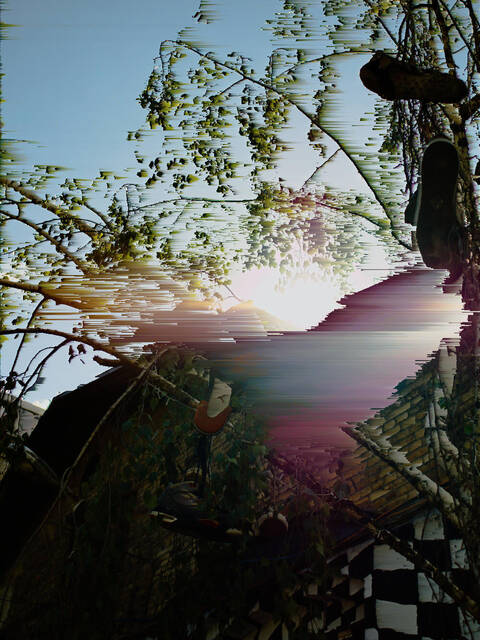
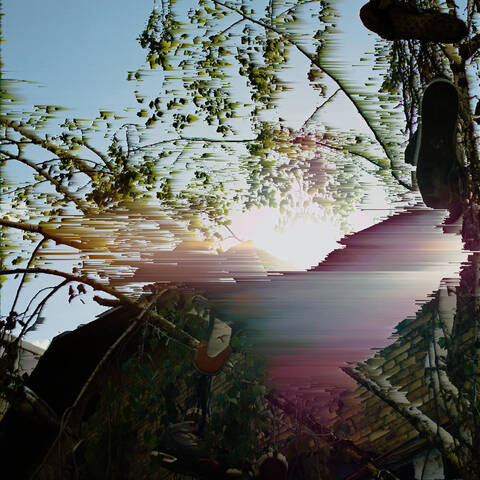
📝 Line up the gallery and add an animation under it
Context: the pictures of the gallery kept the shape of the portrait
they come from, and the columns of the table took the width their
content asked for, so that a recipe on one line made the pictures
beside it smaller than the others. The gallery also showed nothing
that moves, while the effects can be animated.

Why: the pictures are now cut to a square of 480 pixels, taken near the
top of the photo to keep the sky and the sun, and the table has three
columns of a third of the width each, with the pictures filling their
cell, so that all of them have the same size and the texts line up. An
animation, glitch-mix.gif, is shown under the table with its recipe: the
colours turn, slices are pushed aside, the red and blue edges grow, a
faint spin turns round the sun and scanlines stay on top. It is 400
pixels wide, 26 images, 3.5 MB, and generate.sh makes it again with
the pictures.

Alternatives considered: keeping the portrait shape and fixing only the
height of a cell, which leaves empty space beside every picture; the
centre of the photo for the square, which cuts the sky that the false
colour of the sky needs; a larger animation, whose palette of 256
colours and grain make it heavier without looking better.

diff --git a/README.md b/README.md
@@ -6,20 +6,33 @@ Fast JPEG+RAW photo culling in the terminal, with RawTherapee integration and gl
 
 ## Gallery
 
-Every picture is the same photo with one effect, its recipe written under it; open `options` for the parameters of the effect. What each effect does is [explained below](#effects), and `sh docs/examples/generate.sh` makes the pictures again.
+Every picture is the same photo, cropped to a square, with one effect, its recipe written under it; open `options` for the parameters of the effect. What each effect does is [explained below](#effects), and `sh docs/examples/generate.sh` makes the pictures again.
 
-<table>
-<tr><td align="center" valign="top"><img src="docs/examples/loss.jpg" width="260"><br><b>generation loss</b><br><code>loss</code><details><summary>options</summary><div align="left"><code>generations=30</code> times saved as JPEG and read back<br><code>quality=25</code> JPEG quality, 1 to 100; lower wears faster<br><code>shift=1,0</code> pixels the picture moves before each generation<br></div></details></td><td align="center" valign="top"><img src="docs/examples/bend.jpg" width="260"><br><b>databending</b><br><code>bend</code><details><summary>options</summary><div align="left"><code>quality=75</code> JPEG quality before the bytes are bent; lower gives larger blocks<br><code>hits=8</code> how many bytes are changed<br></div></details></td><td align="center" valign="top"><img src="docs/examples/sort.jpg" width="260"><br><b>pixel sorting</b><br><code>sort</code><details><summary>options</summary><div align="left"><code>direction=horizontal</code> horizontal or vertical<br><code>low=40</code> darkest brightness sorted, 0 to 255<br><code>high=220</code> brightest brightness sorted, 0 to 255<br><code>reverse=false</code> sort from bright to dark<br></div></details></td></tr>
-<tr><td align="center" valign="top"><img src="docs/examples/slice.jpg" width="260"><br><b>slice shift</b><br><code>slice</code><details><summary>options</summary><div align="left"><code>slices=12</code> how many slices are pushed<br><code>shift=120</code> how far a slice can go, in pixels<br><code>height=8,120</code> height of a slice, between these two<br><code>split=false</code> push red, green and blue by different amounts<br><code>invert=false</code> invert the colours of one slice in three<br></div></details></td><td align="center" valign="top"><img src="docs/examples/stretch.jpg" width="260"><br><b>pixel stretch</b><br><code>stretch</code><details><summary>options</summary><div align="left"><code>bands=6</code> how many lines are stretched<br><code>length=20,200</code> how far, between these two, in pixels<br><code>direction=horizontal</code> horizontal or vertical<br></div></details></td><td align="center" valign="top"><img src="docs/examples/split.jpg" width="260"><br><b>channel split</b><br><code>split</code><details><summary>options</summary><div align="left"><code>red=-6,0</code> dx,dy in pixels<br><code>green=0,0</code> dx,dy in pixels<br><code>blue=6,0</code> dx,dy in pixels<br></div></details></td></tr>
-<tr><td align="center" valign="top"><img src="docs/examples/dither.jpg" width="260"><br><b>dither, error diffusion</b><br><code>dither</code><details><summary>options</summary><div align="left"><code>method=diffusion</code> diffusion or bayer<br><code>size=2</code> size of a dot, in pixels<br><code>mid=128</code> brightness, 0 to 255, that comes out mid-grey<br></div></details></td><td align="center" valign="top"><img src="docs/examples/dither-bayer.jpg" width="260"><br><b>dither, ordered matrix</b><br><code>dither method=bayer</code><details><summary>options</summary><div align="left"><code>method=diffusion</code> diffusion or bayer<br><code>size=2</code> size of a dot, in pixels<br><code>mid=128</code> brightness, 0 to 255, that comes out mid-grey<br></div></details></td><td align="center" valign="top"><img src="docs/examples/duotone.jpg" width="260"><br><b>duotone</b><br><code>duotone</code><details><summary>options</summary><div align="left"><code>dark=000000</code> ink of the shadows<br><code>light=ff4fa3</code> ink of the lights; colours are hex, a name or a hue<br></div></details></td></tr>
-<tr><td align="center" valign="top"><img src="docs/examples/tritone.jpg" width="260"><br><b>tritone</b><br><code>tritone</code><details><summary>options</summary><div align="left"><code>dark=14052b</code> ink of the shadows<br><code>mid=e0204f</code> ink of the mid tones<br><code>light=ffd9a0</code> ink of the lights<br><code>mix=100</code> how much of the print shows, 0 to 100<br></div></details></td><td align="center" valign="top"><img src="docs/examples/scanlines.jpg" width="260"><br><b>scanlines</b><br><code>scanlines</code><details><summary>options</summary><div align="left"><code>period=4</code> rows from one line to the next<br><code>thickness=1</code> rows a line is thick<br><code>strength=60</code> how dark the lines are, 0 to 100<br></div></details></td><td align="center" valign="top"><img src="docs/examples/drag.jpg" width="260"><br><b>drag, a flash over a slow shutter</b><br><code>drag</code><details><summary>options</summary><div align="left"><code>kind=motion</code> motion or zoom<br><code>length=60</code> how far the smear goes, in pixels<br><code>angle=0</code> direction in degrees, 90 is down<br><code>mix=70</code> how much of the smear shows, 0 to 100<br><code>blend=lighten</code> lighten, screen or normal<br></div></details></td></tr>
-<tr><td align="center" valign="top"><img src="docs/examples/drag-zoom.jpg" width="260"><br><b>drag, zooming</b><br><code>drag kind=zoom</code><details><summary>options</summary><div align="left"><code>kind=motion</code> motion or zoom<br><code>length=60</code> how far the smear goes, in pixels<br><code>angle=0</code> direction in degrees, 90 is down<br><code>mix=70</code> how much of the smear shows, 0 to 100<br><code>blend=lighten</code> lighten, screen or normal<br></div></details></td><td align="center" valign="top"><img src="docs/examples/aberration.jpg" width="260"><br><b>chromatic aberration</b><br><code>aberration</code><details><summary>options</summary><div align="left"><code>amount=0.006</code> how much larger the red is drawn than the green; 0.01 is already strong<br></div></details></td><td align="center" valign="top"><img src="docs/examples/grain.jpg" width="260"><br><b>film grain</b><br><code>grain</code><details><summary>options</summary><div align="left"><code>strength=30</code> 0 to 100<br><code>size=2</code> size of a grain, in pixels<br><code>color=false</code> grain that colours the picture, or only lightens and darkens it<br></div></details></td></tr>
-<tr><td align="center" valign="top"><img src="docs/examples/fade.jpg" width="260"><br><b>faded print</b><br><code>fade</code><details><summary>options</summary><div align="left"><code>lift=12</code> how far the blacks are lifted, 0 to 100<br><code>saturation=80</code> 100 leaves the colour, 0 takes it out, 200 doubles it<br><code>tint=ff8c42</code> colour the picture leans towards<br><code>tint_amount=10</code> how much, 0 to 100<br></div></details></td><td align="center" valign="top"><img src="docs/examples/vignette.jpg" width="260"><br><b>vignette</b><br><code>vignette</code><details><summary>options</summary><div align="left"><code>strength=50</code> how dark the corners get, 0 to 100<br><code>start=40</code> where the darkening starts, 0 to 100 from the centre to the corners<br></div></details></td><td align="center" valign="top"><img src="docs/examples/leak.jpg" width="260"><br><b>light leak</b><br><code>leak</code><details><summary>options</summary><div align="left"><code>color=ff963c</code> colour of the light<br><code>strength=70</code> 0 to 100<br><code>size=50</code> how far it reaches, 0 to 100 of the width<br></div></details></td></tr>
-<tr><td align="center" valign="top"><img src="docs/examples/bloom.jpg" width="260"><br><b>bloom</b><br><code>bloom</code><details><summary>options</summary><div align="left"><code>threshold=200</code> brightness, 0 to 255, above which a light glows<br><code>radius=30</code> how far the glow spreads, in pixels<br><code>strength=60</code> how bright the glow is, 0 to 100<br></div></details></td><td align="center" valign="top"><img src="docs/examples/liquid.jpg" width="260"><br><b>liquid distortion</b><br><code>liquid</code><details><summary>options</summary><div align="left"><code>amplitude=40</code> how far a pixel can be pushed, in pixels<br><code>scale=150</code> size of the waves<br><code>octaves=2</code> layers of finer waves; 1 is smooth, 3 is choppy<br><code>drift=0</code> how far the waves have drifted, to animate<br></div></details></td><td align="center" valign="top"><img src="docs/examples/falsecolor.jpg" width="260"><br><b>false colour (red and blue swapped)</b><br><code>falsecolor</code><details><summary>options</summary><div align="left"><code>order=bgr</code> where each channel comes from: rgb, gbr, brg…<br><code>invert=none</code> channels turned negative: r, g, b, rb… or none<br><code>rotate=0</code> turn the hues, -180 to 180 degrees<br><code>saturation=100</code> 0 takes the colour out, 200 doubles it, up to 400<br><code>only=none</code> move only this hue (name, degrees or hex); none moves all<br><code>width=30</code> degrees either side of <code>only</code> moved whole<br><code>soft=30</code> degrees over which the move fades<br><code>mix=100</code> how much of the result shows, 0 to 100<br></div></details></td></tr>
-<tr><td align="center" valign="top"><img src="docs/examples/falsecolor-rotate.jpg" width="260"><br><b>false colour, hues turned</b><br><code>falsecolor order=rgb rotate=120</code><details><summary>options</summary><div align="left"><code>order=bgr</code> where each channel comes from: rgb, gbr, brg…<br><code>invert=none</code> channels turned negative: r, g, b, rb… or none<br><code>rotate=0</code> turn the hues, -180 to 180 degrees<br><code>saturation=100</code> 0 takes the colour out, 200 doubles it, up to 400<br><code>only=none</code> move only this hue (name, degrees or hex); none moves all<br><code>width=30</code> degrees either side of <code>only</code> moved whole<br><code>soft=30</code> degrees over which the move fades<br><code>mix=100</code> how much of the result shows, 0 to 100<br></div></details></td><td align="center" valign="top"><img src="docs/examples/onepoint.jpg" width="260"><br><b>one point colour</b><br><code>onepoint hue=80deg width=35 soft=30 rest=0</code><details><summary>options</summary><div align="left"><code>hue=0deg</code> the colour kept: a name, degrees or hex<br><code>width=30</code> degrees either side of it kept whole<br><code>soft=30</code> degrees over which the colour fades to grey<br><code>rest=0</code> how much colour the rest keeps, 0 to 100<br><code>at=none</code> <code>x,y</code> in percent: take the hue from this point of the picture<br></div></details></td><td align="center" valign="top"><img src="docs/examples/falsecolor-sky.jpg" width="260"><br><b>false colour, only the sky</b><br><code>falsecolor order=rgb rotate=45 saturation=200 only=blue width=25 soft=25</code><details><summary>options</summary><div align="left"><code>order=bgr</code> where each channel comes from: rgb, gbr, brg…<br><code>invert=none</code> channels turned negative: r, g, b, rb… or none<br><code>rotate=0</code> turn the hues, -180 to 180 degrees<br><code>saturation=100</code> 0 takes the colour out, 200 doubles it, up to 400<br><code>only=none</code> move only this hue (name, degrees or hex); none moves all<br><code>width=30</code> degrees either side of <code>only</code> moved whole<br><code>soft=30</code> degrees over which the move fades<br><code>mix=100</code> how much of the result shows, 0 to 100<br></div></details></td></tr>
-<tr><td align="center" valign="top"><img src="docs/examples/remap.jpg" width="260"><br><b>remap, a hue sent elsewhere</b><br><code>remap map=blue:orange,green:red saturation=130</code><details><summary>options</summary><div align="left"><code>map=none</code> pairs <code>from:to</code>, such as <code>blue:orange,green:red</code>; up to 8<br><code>width=25</code> degrees either side of a hue moved whole<br><code>soft=25</code> degrees over which the move fades<br><code>saturation=100</code> strength of the moved colours, 0 to 400<br><code>mix=100</code> how much of the result shows, 0 to 100<br></div></details></td><td align="center" valign="top"><img src="docs/examples/spin.jpg" width="260"><br><b>spin, a turning smear</b><br><code>spin angle=14</code><details><summary>options</summary><div align="left"><code>angle=10</code> how far it turns, in degrees<br><code>center=50,50</code> centre of the turn, in percent of width,height<br><code>steps=0</code> positions blended; 0 takes as many as needed, 5 gives ghosts<br><code>mix=100</code> how much of the smear shows, 0 to 100<br></div></details></td><td align="center" valign="top"><img src="docs/examples/spin-ghosts.jpg" width="260"><br><b>spin, a few ghosts</b><br><code>spin angle=24 steps=5 center=30,60</code><details><summary>options</summary><div align="left"><code>angle=10</code> how far it turns, in degrees<br><code>center=50,50</code> centre of the turn, in percent of width,height<br><code>steps=0</code> positions blended; 0 takes as many as needed, 5 gives ghosts<br><code>mix=100</code> how much of the smear shows, 0 to 100<br></div></details></td></tr>
-<tr><td align="center" valign="top"><img src="docs/examples/chain.jpg" width="260"><br><b>three effects in a row</b><br><code>sort low=40 high=220 + slice slices=12 split=true + grain</code><details><summary>options</summary><div align="left">effects joined by <code>+</code> run in order, each with its own options<br></div></details></td><td></td><td></td></tr>
+<table width="100%">
+<tr><td width="33%" align="center" valign="top"><img src="docs/examples/loss.jpg" width="100%"><br><b>generation loss</b><br><code>loss</code><details><summary>options</summary><div align="left"><code>generations=30</code> times saved as JPEG and read back<br><code>quality=25</code> JPEG quality, 1 to 100; lower wears faster<br><code>shift=1,0</code> pixels the picture moves before each generation<br></div></details></td><td width="33%" align="center" valign="top"><img src="docs/examples/bend.jpg" width="100%"><br><b>databending</b><br><code>bend</code><details><summary>options</summary><div align="left"><code>quality=75</code> JPEG quality before the bytes are bent; lower gives larger blocks<br><code>hits=8</code> how many bytes are changed<br></div></details></td><td width="33%" align="center" valign="top"><img src="docs/examples/sort.jpg" width="100%"><br><b>pixel sorting</b><br><code>sort</code><details><summary>options</summary><div align="left"><code>direction=horizontal</code> horizontal or vertical<br><code>low=40</code> darkest brightness sorted, 0 to 255<br><code>high=220</code> brightest brightness sorted, 0 to 255<br><code>reverse=false</code> sort from bright to dark<br></div></details></td></tr>
+<tr><td width="33%" align="center" valign="top"><img src="docs/examples/slice.jpg" width="100%"><br><b>slice shift</b><br><code>slice</code><details><summary>options</summary><div align="left"><code>slices=12</code> how many slices are pushed<br><code>shift=120</code> how far a slice can go, in pixels<br><code>height=8,120</code> height of a slice, between these two<br><code>split=false</code> push red, green and blue by different amounts<br><code>invert=false</code> invert the colours of one slice in three<br></div></details></td><td width="33%" align="center" valign="top"><img src="docs/examples/stretch.jpg" width="100%"><br><b>pixel stretch</b><br><code>stretch</code><details><summary>options</summary><div align="left"><code>bands=6</code> how many lines are stretched<br><code>length=20,200</code> how far, between these two, in pixels<br><code>direction=horizontal</code> horizontal or vertical<br></div></details></td><td width="33%" align="center" valign="top"><img src="docs/examples/split.jpg" width="100%"><br><b>channel split</b><br><code>split</code><details><summary>options</summary><div align="left"><code>red=-6,0</code> dx,dy in pixels<br><code>green=0,0</code> dx,dy in pixels<br><code>blue=6,0</code> dx,dy in pixels<br></div></details></td></tr>
+<tr><td width="33%" align="center" valign="top"><img src="docs/examples/dither.jpg" width="100%"><br><b>dither, error diffusion</b><br><code>dither</code><details><summary>options</summary><div align="left"><code>method=diffusion</code> diffusion or bayer<br><code>size=2</code> size of a dot, in pixels<br><code>mid=128</code> brightness, 0 to 255, that comes out mid-grey<br></div></details></td><td width="33%" align="center" valign="top"><img src="docs/examples/dither-bayer.jpg" width="100%"><br><b>dither, ordered matrix</b><br><code>dither method=bayer</code><details><summary>options</summary><div align="left"><code>method=diffusion</code> diffusion or bayer<br><code>size=2</code> size of a dot, in pixels<br><code>mid=128</code> brightness, 0 to 255, that comes out mid-grey<br></div></details></td><td width="33%" align="center" valign="top"><img src="docs/examples/duotone.jpg" width="100%"><br><b>duotone</b><br><code>duotone</code><details><summary>options</summary><div align="left"><code>dark=000000</code> ink of the shadows<br><code>light=ff4fa3</code> ink of the lights; colours are hex, a name or a hue<br></div></details></td></tr>
+<tr><td width="33%" align="center" valign="top"><img src="docs/examples/tritone.jpg" width="100%"><br><b>tritone</b><br><code>tritone</code><details><summary>options</summary><div align="left"><code>dark=14052b</code> ink of the shadows<br><code>mid=e0204f</code> ink of the mid tones<br><code>light=ffd9a0</code> ink of the lights<br><code>mix=100</code> how much of the print shows, 0 to 100<br></div></details></td><td width="33%" align="center" valign="top"><img src="docs/examples/scanlines.jpg" width="100%"><br><b>scanlines</b><br><code>scanlines</code><details><summary>options</summary><div align="left"><code>period=4</code> rows from one line to the next<br><code>thickness=1</code> rows a line is thick<br><code>strength=60</code> how dark the lines are, 0 to 100<br></div></details></td><td width="33%" align="center" valign="top"><img src="docs/examples/drag.jpg" width="100%"><br><b>drag, a flash over a slow shutter</b><br><code>drag</code><details><summary>options</summary><div align="left"><code>kind=motion</code> motion or zoom<br><code>length=60</code> how far the smear goes, in pixels<br><code>angle=0</code> direction in degrees, 90 is down<br><code>mix=70</code> how much of the smear shows, 0 to 100<br><code>blend=lighten</code> lighten, screen or normal<br></div></details></td></tr>
+<tr><td width="33%" align="center" valign="top"><img src="docs/examples/drag-zoom.jpg" width="100%"><br><b>drag, zooming</b><br><code>drag kind=zoom</code><details><summary>options</summary><div align="left"><code>kind=motion</code> motion or zoom<br><code>length=60</code> how far the smear goes, in pixels<br><code>angle=0</code> direction in degrees, 90 is down<br><code>mix=70</code> how much of the smear shows, 0 to 100<br><code>blend=lighten</code> lighten, screen or normal<br></div></details></td><td width="33%" align="center" valign="top"><img src="docs/examples/aberration.jpg" width="100%"><br><b>chromatic aberration</b><br><code>aberration</code><details><summary>options</summary><div align="left"><code>amount=0.006</code> how much larger the red is drawn than the green; 0.01 is already strong<br></div></details></td><td width="33%" align="center" valign="top"><img src="docs/examples/grain.jpg" width="100%"><br><b>film grain</b><br><code>grain</code><details><summary>options</summary><div align="left"><code>strength=30</code> 0 to 100<br><code>size=2</code> size of a grain, in pixels<br><code>color=false</code> grain that colours the picture, or only lightens and darkens it<br></div></details></td></tr>
+<tr><td width="33%" align="center" valign="top"><img src="docs/examples/fade.jpg" width="100%"><br><b>faded print</b><br><code>fade</code><details><summary>options</summary><div align="left"><code>lift=12</code> how far the blacks are lifted, 0 to 100<br><code>saturation=80</code> 100 leaves the colour, 0 takes it out, 200 doubles it<br><code>tint=ff8c42</code> colour the picture leans towards<br><code>tint_amount=10</code> how much, 0 to 100<br></div></details></td><td width="33%" align="center" valign="top"><img src="docs/examples/vignette.jpg" width="100%"><br><b>vignette</b><br><code>vignette</code><details><summary>options</summary><div align="left"><code>strength=50</code> how dark the corners get, 0 to 100<br><code>start=40</code> where the darkening starts, 0 to 100 from the centre to the corners<br></div></details></td><td width="33%" align="center" valign="top"><img src="docs/examples/leak.jpg" width="100%"><br><b>light leak</b><br><code>leak</code><details><summary>options</summary><div align="left"><code>color=ff963c</code> colour of the light<br><code>strength=70</code> 0 to 100<br><code>size=50</code> how far it reaches, 0 to 100 of the width<br></div></details></td></tr>
+<tr><td width="33%" align="center" valign="top"><img src="docs/examples/bloom.jpg" width="100%"><br><b>bloom</b><br><code>bloom</code><details><summary>options</summary><div align="left"><code>threshold=200</code> brightness, 0 to 255, above which a light glows<br><code>radius=30</code> how far the glow spreads, in pixels<br><code>strength=60</code> how bright the glow is, 0 to 100<br></div></details></td><td width="33%" align="center" valign="top"><img src="docs/examples/liquid.jpg" width="100%"><br><b>liquid distortion</b><br><code>liquid</code><details><summary>options</summary><div align="left"><code>amplitude=40</code> how far a pixel can be pushed, in pixels<br><code>scale=150</code> size of the waves<br><code>octaves=2</code> layers of finer waves; 1 is smooth, 3 is choppy<br><code>drift=0</code> how far the waves have drifted, to animate<br></div></details></td><td width="33%" align="center" valign="top"><img src="docs/examples/falsecolor.jpg" width="100%"><br><b>false colour (red and blue swapped)</b><br><code>falsecolor</code><details><summary>options</summary><div align="left"><code>order=bgr</code> where each channel comes from: rgb, gbr, brg…<br><code>invert=none</code> channels turned negative: r, g, b, rb… or none<br><code>rotate=0</code> turn the hues, -180 to 180 degrees<br><code>saturation=100</code> 0 takes the colour out, 200 doubles it, up to 400<br><code>only=none</code> move only this hue (name, degrees or hex); none moves all<br><code>width=30</code> degrees either side of <code>only</code> moved whole<br><code>soft=30</code> degrees over which the move fades<br><code>mix=100</code> how much of the result shows, 0 to 100<br></div></details></td></tr>
+<tr><td width="33%" align="center" valign="top"><img src="docs/examples/falsecolor-rotate.jpg" width="100%"><br><b>false colour, hues turned</b><br><code>falsecolor order=rgb rotate=120</code><details><summary>options</summary><div align="left"><code>order=bgr</code> where each channel comes from: rgb, gbr, brg…<br><code>invert=none</code> channels turned negative: r, g, b, rb… or none<br><code>rotate=0</code> turn the hues, -180 to 180 degrees<br><code>saturation=100</code> 0 takes the colour out, 200 doubles it, up to 400<br><code>only=none</code> move only this hue (name, degrees or hex); none moves all<br><code>width=30</code> degrees either side of <code>only</code> moved whole<br><code>soft=30</code> degrees over which the move fades<br><code>mix=100</code> how much of the result shows, 0 to 100<br></div></details></td><td width="33%" align="center" valign="top"><img src="docs/examples/onepoint.jpg" width="100%"><br><b>one point colour</b><br><code>onepoint hue=80deg width=35 soft=30 rest=0</code><details><summary>options</summary><div align="left"><code>hue=0deg</code> the colour kept: a name, degrees or hex<br><code>width=30</code> degrees either side of it kept whole<br><code>soft=30</code> degrees over which the colour fades to grey<br><code>rest=0</code> how much colour the rest keeps, 0 to 100<br><code>at=none</code> <code>x,y</code> in percent: take the hue from this point of the picture<br></div></details></td><td width="33%" align="center" valign="top"><img src="docs/examples/falsecolor-sky.jpg" width="100%"><br><b>false colour, only the sky</b><br><code>falsecolor order=rgb rotate=45 saturation=200 only=blue width=25 soft=25</code><details><summary>options</summary><div align="left"><code>order=bgr</code> where each channel comes from: rgb, gbr, brg…<br><code>invert=none</code> channels turned negative: r, g, b, rb… or none<br><code>rotate=0</code> turn the hues, -180 to 180 degrees<br><code>saturation=100</code> 0 takes the colour out, 200 doubles it, up to 400<br><code>only=none</code> move only this hue (name, degrees or hex); none moves all<br><code>width=30</code> degrees either side of <code>only</code> moved whole<br><code>soft=30</code> degrees over which the move fades<br><code>mix=100</code> how much of the result shows, 0 to 100<br></div></details></td></tr>
+<tr><td width="33%" align="center" valign="top"><img src="docs/examples/remap.jpg" width="100%"><br><b>remap, a hue sent elsewhere</b><br><code>remap map=blue:orange,green:red saturation=130</code><details><summary>options</summary><div align="left"><code>map=none</code> pairs <code>from:to</code>, such as <code>blue:orange,green:red</code>; up to 8<br><code>width=25</code> degrees either side of a hue moved whole<br><code>soft=25</code> degrees over which the move fades<br><code>saturation=100</code> strength of the moved colours, 0 to 400<br><code>mix=100</code> how much of the result shows, 0 to 100<br></div></details></td><td width="33%" align="center" valign="top"><img src="docs/examples/spin.jpg" width="100%"><br><b>spin, a turning smear</b><br><code>spin angle=14</code><details><summary>options</summary><div align="left"><code>angle=10</code> how far it turns, in degrees<br><code>center=50,50</code> centre of the turn, in percent of width,height<br><code>steps=0</code> positions blended; 0 takes as many as needed, 5 gives ghosts<br><code>mix=100</code> how much of the smear shows, 0 to 100<br></div></details></td><td width="33%" align="center" valign="top"><img src="docs/examples/spin-ghosts.jpg" width="100%"><br><b>spin, a few ghosts</b><br><code>spin angle=24 steps=5 center=30,60</code><details><summary>options</summary><div align="left"><code>angle=10</code> how far it turns, in degrees<br><code>center=50,50</code> centre of the turn, in percent of width,height<br><code>steps=0</code> positions blended; 0 takes as many as needed, 5 gives ghosts<br><code>mix=100</code> how much of the smear shows, 0 to 100<br></div></details></td></tr>
+<tr><td width="33%" align="center" valign="top"><img src="docs/examples/chain.jpg" width="100%"><br><b>three effects in a row</b><br><code>sort low=40 high=220 + slice slices=12 split=true + grain</code><details><summary>options</summary><div align="left">effects joined by <code>+</code> run in order, each with its own options<br></div></details></td><td width="33%"></td><td width="33%"></td></tr>
 </table>
+
+An animation mixing five effects: the colours turn from green to violet while slices of the picture are pushed aside, the red and blue edges grow, a faint spin turns round the sun and scanlines stay on top. Parameters written `a..b` go from one value to the other over the animation, and back, so that the loop does not jump (`glitchgif` makes it, `sh docs/examples/generate.sh` makes it again):
+
+<p align="center"><img src="docs/examples/glitch-mix.gif" width="300"></p>
+
+```sh
+cargo run --release -p corrode-core --example glitchgif -- docs/examples/photo.jpg glitch-mix.gif frames=14 fps=10 width=400 seed=11 \
+    falsecolor order=rgb rotate=-70..70 saturation=130 \
+    + slice slices=4..10 shift=10..70 split=true \
+    + aberration amount=0.003..0.012 \
+    + spin angle=0..2 center=50,45 \
+    + scanlines period=3 strength=25
+```
 
 ## Goals
 
